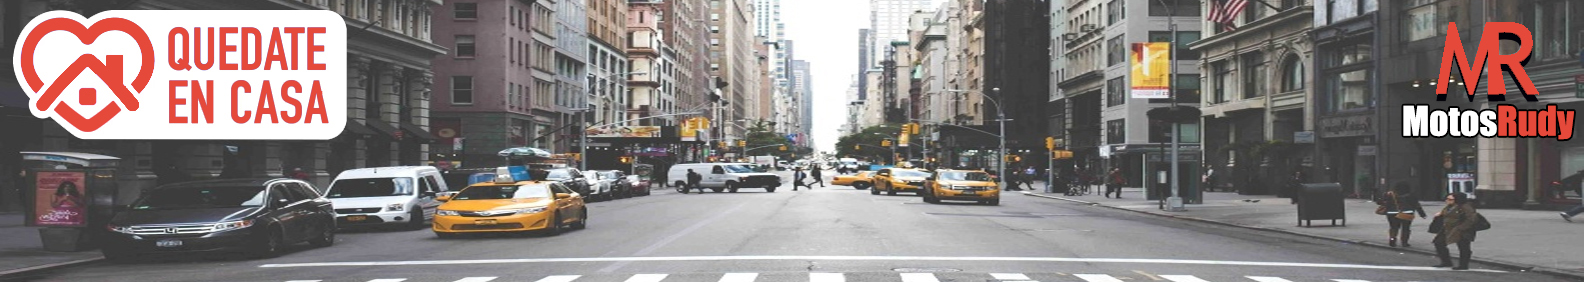
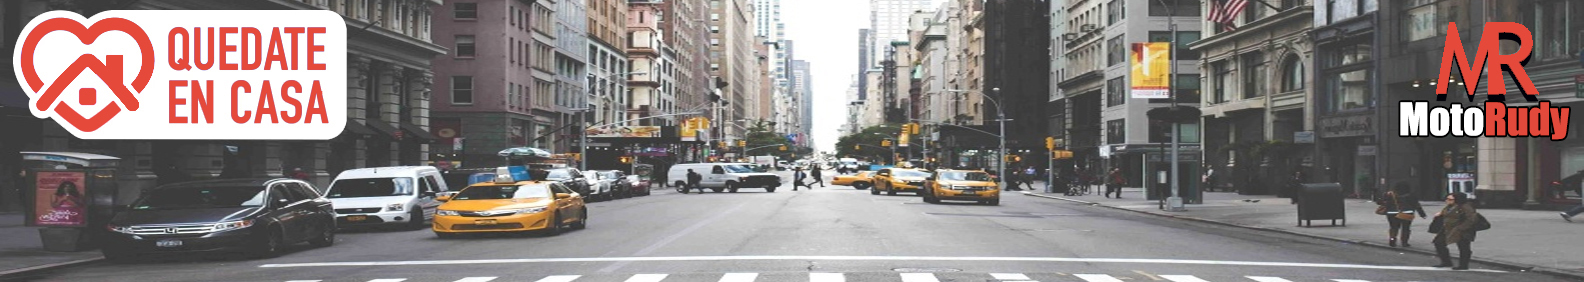
fix mensajes php

Changed region(s): [[0.8662, 0.3404, 1.0, 0.5106]]

diff --git a/contacto.html b/contacto.html
@@ -2,7 +2,7 @@
 <html>
 
 <head>
-  <title>Start Page</title>
+  <title>Moto rudy - ¡Mensajeria de confianza!</title>
   <meta http-equiv="Content-Type" content="text/html; charset=UTF-8">
   <link href="https://cdn.jsdelivr.net/npm/bootstrap@5.0.0-beta1/dist/css/bootstrap.min.css" rel="stylesheet"
     integrity="sha384-giJF6kkoqNQ00vy+HMDP7azOuL0xtbfIcaT9wjKHr8RbDVddVHyTfAAsrekwKmP1" crossorigin="anonymous">
@@ -11,7 +11,7 @@
 
   <meta name="viewport" content="width=device-width, initial-scale=1, shrink-to-fit=no">
 
-  <link rel="icon" href="logo.png">
+  <link rel="icon" href="imagenes/logo.png">
   <link rel="stylesheet" href="hover.css">
 </head>
 
@@ -122,7 +122,7 @@
 
   <!-- FOOTER -->
   <div class="footer fixed-bottom bg-dark m-0">
-    <p class="text-center m-0" style="font-weight: bold; font-size: 15px;"> © 2021 - MOTOSRUDY </p>
+    <p class="text-center m-0" style="font-weight: bold; font-size: 15px;"> © 2021 - MOTORUDY SINCE 1996 </p>
   </div>
 
   <script src="main.js"></script>

diff --git a/index.html b/index.html
@@ -2,7 +2,7 @@
 <html>
 
 <head>
-  <title>Start Page</title>
+  <title>Moto rudy - ¡Mensajeria de confianza!</title>
   <meta http-equiv="Content-Type" content="text/html; charset=UTF-8">
 
   <link href="https://cdn.jsdelivr.net/npm/bootstrap@5.0.0-beta1/dist/css/bootstrap.min.css" rel="stylesheet"
@@ -11,7 +11,7 @@
   <link rel="stylesheet" href="estilos.css">
 
   <meta name="viewport" content="width=device-width, initial-scale=1, shrink-to-fit=no">
-  <link rel="icon" href="logo.png">
+  <link rel="icon" href="imagenes/logo.png">
   <link rel="stylesheet" href="hover.css">
 </head>
 
@@ -113,7 +113,7 @@
 
   <!-- FOOTER -->
   <div class="footer fixed-bottom bg-dark m-0">
-    <p class="text-center m-0" style="font-weight: bold; font-size: 15px;"> © 2021 - MOTOSRUDY </p>
+    <p class="text-center m-0" style="font-weight: bold; font-size: 15px;"> © 2021 - MOTORUDY SINCE 1996 </p>
    </div>
   
 

diff --git a/enviar.php b/enviar.php
@@ -2,7 +2,7 @@
 <html>
 
 <head>
-  <title>Start Page</title>
+  <title>Moto rudy - ¡Mensajeria de confianza!</title>
   <meta http-equiv="Content-Type" content="text/html; charset=UTF-8">
 
   <link href="https://cdn.jsdelivr.net/npm/bootstrap@5.0.0-beta1/dist/css/bootstrap.min.css" rel="stylesheet"
@@ -12,26 +12,23 @@
 
   <meta name="viewport" content="width=device-width, initial-scale=1, shrink-to-fit=no">
 
-  <link rel="icon" href="moto.png">
+  <link rel="icon" href="imagenes/logo.png">
 </head>
 
 <body>
-<?php 
-$myemail = 'facueliaslopez@gmail.com';
-$name = $_POST['nombre'];
-$secondname = $_POST['apellido'];
-$email = $_POST['email'];
-$telefono = $_POST['telefono'];
-$message = $_POST['mensaje'];
 
-$subject='';
-
-$to = $myemail;
-$email_subject = "Nuevo mensaje: $subject";
-$email_body = "Haz recibido un nuevo mensaje. \n Nombre: $name \n Apellido: $secondname \n Correo: $email \n Telefono: $telefono \n Mensaje: \n $message";
-$headers = "From: $email";
-
-mail($to, $email_subject, $email_body, $headers);
+<?php
+if(isset($_POST["nombre"]) && isset($_POST["email"]) && isset($_POST["mensaje"]) ){
+$to = "CUENTA_DESTINO@DOMINIO.COM";
+$subject = "Mensaje Enviado";
+$contenido .= "Nombre: ".$_POST["nombre"]."\n";
+$contenido .= "Email: ".$_POST["email"]."\n\n";
+$contenido .= "Mensaje: ".$_POST["mensaje"]."\n\n";
+$header = "From: no-reply@c2090818.ferozo.com\nReply-To:".$_POST["email"]."\n";
+if(mail($to, $subject, $contenido ,$header)){
+echo "Mail Enviado.";
+}
+}
 ?>
 
 
@@ -58,7 +55,12 @@ mail($to, $email_subject, $email_body, $headers);
     </div>
     </div>
   </header>
-
+  <div class="alert alert-success" role="alert">
+  <h4 class="alert-heading">¡Excelente!</h4>
+  <p>Su mensaje ha sido enviado con éxito</p>
+  <hr>
+  <p class="mb-0">Le responderemos a la brevedad, ¡Muchas gracias!.</p>
+</div>
   <nav class="navbar navbar-expand-lg navbar-dark bg-dark">
     <div class="container-fluid">
       <a class="navbar-brand" href="index.html"><img src="imagenes/logo.png" alt="" width="50px"></a>
@@ -122,7 +124,7 @@ mail($to, $email_subject, $email_body, $headers);
 </form>
 
 <div class="footer fixed-bottom bg-dark m-0">
-    <p class="text-center m-0" style="font-weight: bold; font-size: 15px;"> © 2021 - MOTOSRUDY </p>
+    <p class="text-center m-0" style="font-weight: bold; font-size: 15px;"> © 2021 - MOTORUDY SINCE 1996 </p>
   </div>
 
   <script src="main.js"></script>
